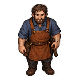
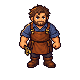
Match NPC and Inspector artwork to the party (#19)
* Match Larkspur and Rillbridge NPC artwork to the party

* Complete matching NPC and enemy sprite and portrait set

* Handle supporting-sheet gaps at the scan boundary

* Restore original Hound, Crow and Guardian artwork

Changed region(s): [[0.225, 0.05, 0.775, 0.95]]

diff --git a/tests/e2e/sprites.spec.ts b/tests/e2e/sprites.spec.ts
@@ -14,7 +14,9 @@ for(const [device,viewport,dpr] of [['desktop',{width:1280,height:800},1],['phon
     // Check every exported actor's real alpha bounds, including the new reserve directions.
     const feet=await page.evaluate(async()=>{
       const all=[];
-      for(const hero of ['nell','orrin','kit','celia','petra'])for(const suffix of ['','-left','-right','-back']){
+      const party=['nell','orrin','kit','celia','petra'];
+      const supporting=['master','clerk','tilda','elspeth','tomas','alban','bram','dena','emperor','relay-keeper','boiler-keeper','sluice-keeper','inspector','hound','crow','guardian'];
+      for(const hero of [...party,...supporting])for(const suffix of party.includes(hero)?['','-left','-right','-back']:['']){
         const image=new Image();image.src=`/art/${hero}${suffix}.png`;await image.decode();
         const canvas=document.createElement('canvas');canvas.width=canvas.height=80;const ctx=canvas.getContext('2d')!;ctx.drawImage(image,0,0);
         const p=ctx.getImageData(0,0,80,80).data;let bottom=-1,top=80;
@@ -35,7 +37,14 @@ for(const [device,viewport,dpr] of [['desktop',{width:1280,height:800},1],['phon
         all.push({hero,suffix,top,bottom,components,width:image.naturalWidth,height:image.naturalHeight});
       }return all;
     });
-    for(const actor of feet){expect(actor.width).toBe(80);expect(actor.height).toBe(80);expect(actor.bottom,`${actor.hero}${actor.suffix} ground`).toBe(67);expect(actor.components,`${actor.hero}${actor.suffix} has no detached alpha fragments`).toBe(1);expect(actor.top).toBeGreaterThanOrEqual(4);expect(actor.top).toBeLessThanOrEqual(10);}
+    for(const actor of feet){
+      expect(actor.width).toBe(80);expect(actor.height).toBe(80);
+      // These enemies retain their original native silhouettes and placement.
+      if(['hound','crow','guardian'].includes(actor.hero))continue;
+      expect(actor.bottom,`${actor.hero}${actor.suffix} ground`).toBe(67);
+      expect(actor.components,`${actor.hero}${actor.suffix} has no detached alpha fragments`).toBe(1);
+      expect(actor.top).toBeGreaterThanOrEqual(4);expect(actor.top).toBeLessThanOrEqual(10);
+    }
     await capture(page,`sprite-cast-${device}`);
     await review.getByRole('button',{name:'Inspect Celia',exact:true}).click();
     await review.getByRole('group',{name:'Facing',exact:true}).getByRole('button',{name:'Back',exact:true}).click();
@@ -81,6 +90,7 @@ for(const [device,viewport,dpr] of [['desktop',{width:1280,height:800},1],['phon
     expect(await hound.evaluate(async element=>{const i=element as HTMLImageElement;await i.decode();const scale=window.borrowedTomorrowPixels.inspect().cssScale,r=i.getBoundingClientRect();return [i.naturalWidth,i.naturalHeight,Math.round(r.width/scale),Math.round(r.height/scale)];})).toEqual([80,80,80,80]);
     await expect(review.locator('.sprite-reference')).toContainText('Portrait: not available');
     expect(await page.locator('.inventory-panel').evaluate(p=>p.scrollWidth<=p.clientWidth)).toBe(true);
+    await capture(page,`sprite-enemies-${device}`);
     expect(await page.evaluate(()=>JSON.stringify(localStorage))).toBe(stored);await expect(page.locator('vite-error-overlay')).toHaveCount(0);expect(errors).toEqual([]);
   });
  });

diff --git a/assets/characters/supporting-prompts.md b/assets/characters/supporting-prompts.md
@@ -1,0 +1,70 @@
+# Supporting-cast artwork
+
+Created with built-in Image Gen. The approved Nell atlas supplies style and proportions; each character's previous portrait and actor supply identity and costume. The committed native PNGs are the production art. Source-sheet filenames and export sizes are recorded in `supporting-cast.json`; source sheets remain in the work chat.
+
+## Shared portrait/actor prompt
+
+Use case: style-transfer. Asset type: transparent JRPG production sheet with TWO cutouts, one portrait and one world actor of ONE character. Input 1 is the approved Nell PARTY ATLAS: STYLE AND WORLD PROPORTIONS REFERENCE ONLY; do NOT draw Nell or borrow her costume. Input 2 is this NPC's OLD portrait and actor: IDENTITY/COSTUME REFERENCE ONLY, replace its more realistic rendering with the party style.
+STYLE MUST MATCH THE FIRST REFERENCE closely: compact 2.75-head-tall super-deformed world actor, large readable simplified anime/JRPG eyes, crisp dark warm outlines, discrete late-16-bit/early-PC pixel clusters, warm upper-left highlights, blue-violet shadows. The portrait has the same simplified face and costume as the actor. No photorealism, painted rendering, tiny realistic face, bloom, dithering or antialiased contours.
+LAYOUT: vertical sheet. One large HEAD-AND-SHOULDERS portrait centered in the UPPER HALF, with its complete hair and shoulders visible. One complete compact FRONT-FACING world actor centered in the LOWER HALF, feet visible. The entire portrait is ABOVE the horizontal midpoint and the entire actor is BELOW it, with a wide transparent gap at midpoint. ONLY these two depictions; do not copy the four-direction layout of Nell's reference. Pixel clusters should be large enough to survive export to portrait 128x128 and world actor 80x80, actual figure 64 pixels tall. World face must retain clear eyes and a tiny mouth at that size. Same anatomy, costume, face and colors in both cutouts.
+BACKGROUND: genuine transparency. No labels, text, frames, panels, scenery, cast shadows, ground shadows, glow, floating specks, extra figures or extra poses.
+
+## Identity briefs
+
+### master
+
+Stationmaster Ansel: elderly human man; wavy swept-back white hair, bushy white eyebrows, large white handlebar moustache, NO beard, kindly thoughtful eyes. Black/navy railway longcoat with brass-gold piping and a round brass railway badge, brown double-breasted waistcoat with pocket watch chain, white shirt, dark tie, dark trousers, brown boots. No hat worn; hands relaxed. Practical dignified mentor, gentle expression.
+
+### clerk
+
+Iona: adult female supply clerk with short chestnut/dark-brown hair tucked under a charcoal-gray tall bowler/top hat with black band and small brass railway badge. Small round brass spectacles and intelligent kind eyes. Gray railway jacket, dark vest and trousers, white collar and dark tie, brown boots; holds her wooden clipboard/ledger and short pencil close to her chest. Dry, friendly, composed expression. Preserve hat, glasses and ledger; no cap, staff or weapon.
+
+### tilda
+
+Tilda: sturdy, plump adult female baker, curly red/auburn hair with a cream head kerchief tied behind. Green calf-length work dress, cream apron, brown shoes; holds a neatly folded cream bread cloth in both hands at her waist. Warm concerned face, approachable and practical. No weapon, jewelry or religious symbol. Keep her distinctly red-haired and round-cheeked.
+
+### elspeth
+
+Elspeth: elderly female retired teacher in a wheelchair. Neat gray hair gathered back in a bun, small round brass spectacles, precise alert eyes, plum/mulberry knitted shawl over long navy-blue dress. Holds a closed blue register book on her lap. Seated upright in a dark wood and brass wheelchair with TWO large dark rear wheels, small front casters, armrests and a footplate; boots rest on the footplate. She does NOT stand or walk. Portrait must include hints of the wheelchair back/handles and the blue book at its lower edge. World actor includes the COMPLETE wheelchair, wheels and feet, still compact and same overall 64-pixel target height as Nell. Independent, composed, slightly stern expression.
+
+### tomas
+
+Tomas: human man age 24, Nell's older brother. Short tousled brown hair, warm brown eyes, clean-shaven youthful but adult face. Navy traveling jacket, cream shirt, worn rust-red scarf, brass sun brooch, leather cross-body satchel, brown trousers and sturdy brown boots. Warm but worried expression; relaxed open empty hands. No cap, lantern or weapon.
+
+### alban
+
+Captain Alban: HUMAN imperial officer in his late thirties, pale skin, angular stern face, swept-back dark hair with a silver streak at the temple, no beard, no mask, no goggles. Navy military longcoat with brass-gold trim and epaulettes, ivory breastplate with brass sun, burgundy diagonal sash, white gloves, dark trousers, black boots. Saber held down in his RIGHT hand, LEFT hand empty. Upright authoritative posture. His very clearly human face must be distinct from the generic robotic Inspector.
+
+### bram
+
+Bram: broad, stocky, middle-aged human male works foreman. Tousled short dark-brown hair and full short brown beard, thick eyebrows, warm practical expression. Rolled-sleeve dusty BLUE work shirt, worn BROWN leather work apron, dark work trousers, brown boots. A small brass wrench held low in his RIGHT hand, LEFT hand empty. No cap, goggles, steam lance, weapons or uniform. Retain recognizable foreman identity distinct from Orrin.
+
+### dena
+
+Dena: adult human female railway ward nurse with medium brown skin, short curly dark hair, gentle attentive brown eyes. Small plain CREAM nurse cap WITHOUT a cross, teal/forest-green rolled-sleeve blouse, long plain CREAM work apron over a dark skirt, brown practical shoes. Brown cross-body medical bag; holds its shoulder strap with her LEFT hand, RIGHT hand empty. Friendly capable calm face. No religious or medical cross symbols.
+
+### emperor
+
+The Emperor: weary older human man with shoulder-length wavy silver hair, gray eyes, short neat silver beard. Thin brass sun circlet, dark navy imperial coat under an ivory gold-trimmed outer coat with broad shoulders, black mourning ribbon pinned on chest, brass imperial sun clasp, dark trousers, boots. Regally restrained upright posture, bare hands at sides, no weapon or staff. Burdened, proud, sorrowful expression rather than kindly smile. Do not resemble a younger party member.
+
+### relay-keeper
+
+The Engine Warden: slender articulate clockwork machine, distinctly NOT a human. Brass/gold skeletal limbs, teal-green glass cylindrical torso with vertical ribs, tall oval glass-caged head containing TWO warm amber lenses, small brass finial on top. Its anatomical RIGHT arm holds a red-and-ivory railway semaphore paddle angled up; anatomical LEFT arm extends sideways as a black-ended brass baton/tool. Thin jointed metal legs and broad small brass feet. Same compact 64-pixel target height as Nell but slender silhouette. Portrait shows oval head, glass cylinder and shoulder mechanisms with semaphore edge. Clearly mechanical, no human face, hair or clothing.
+
+### boiler-keeper
+
+Heart regulator: squat bulky blackened iron and copper boiler automaton. Rounded black domed head with TWO amber round eyes beneath a riveted brow; large cream round pressure gauge in the UPPER CENTER of its chest, bright orange vertical furnace grate immediately BELOW the gauge. Copper exhaust chimney rising from its anatomical LEFT shoulder, pipes and pressure fittings, two heavy jointed arms ending in metal clamp claws, short broad mechanical legs and metal boots. Copper/brass edge trim. Distinct from the generic guardian by its central round pressure gauge, clamp hands and pressure apparatus. Portrait includes the face, gauge and upper furnace. No human face, clothing, text or tiny gauge numbers.
+
+### sluice-keeper
+
+The Sanctuary Warden: heavy weathered TEAL/GREEN verdigris and bronze cylindrical hydraulic guardian. Helmet-like barrel head with a single narrow CYAN-BLUE horizontal visor slit, flat brass band and rounded cap. Huge round BRONZE VALVE WHEEL centered on its broad chest, bronze bolts, curved teal shoulder plates, exposed hydraulic pipes, two broad steel/brass gauntlets and short heavy metal legs/boots. Two unequal vertical shoulder pipe fittings. Distinct from boiler/guardian with blue slit visor, green armor and large circular valve chest; no orange furnace. Portrait shows helmet, shoulders and upper valve wheel. No human face or clothing.
+
+### inspector
+
+Inspector: a humanoid CLOCKWORK ENFORCER, NOT a human. Cold pale steel/iron articulated MASK face with TWO small amber glowing lens eyes, no hair, no flesh, no moustache, no beard. Charcoal peaked railway officer cap with brass sun badge, dark charcoal longcoat with brass trim and buttons, reddish-brown cross-body strap, mechanical gloved hands and dark heavy boots. Holds a long brass staff topped with a round RED STOP DISC in its anatomical LEFT hand; RIGHT arm rests by side. Severe rigid posture. Distinct from human Captain Alban. Portrait includes metal mask and cap; keep the face simplified into bold readable pixel clusters.
+
+## Native export
+
+Run `node scripts/import-character-atlas.mjs <asset-id> <source.png>`. The supporting-cast manifest records the retained portrait/actor replacements. Hound, Crow and Guardian use their original native PNGs; their rejected resampled replacements are not production sources. Pair exports find the transparent gap between the portrait and actor. Source and native cutouts discard detached alpha fragments; nearest-neighbor sampling copies complete source RGBA pixels. Per-view phases in `sampling-offsets.json` are selected from native face comparisons, with no painted corrections or palette conversion.
+
+The replacement figures use a 64-pixel height budget within the 80 x 80 canvas, with widths bounded without stretching and a row-68 ground guide. The three original enemy PNGs retain their original silhouettes and placement. Portraits remain 128 x 128. Runtime code renders the committed art at native size.

diff --git a/docs/art-direction.md b/docs/art-direction.md
@@ -23,7 +23,7 @@ Restored scenery and character assets not assigned to the playable chapters rema
 
 ## Characters
 
-`src/content/characters.ts` registers each named character. Ansel and Iona exclusively own the original `master` and `clerk` sprite/portrait pairs. The five playable characters use one consistent pixel-art set with four directional actors each. Tilda retains her red hair, cream kerchief and green dress. Elspeth retains her wheelchair, plum shawl and blue register.
+`src/content/characters.ts` registers each named character. Ansel and Iona exclusively own the `master` and `clerk` sprite/portrait identities. The whole registered cast uses one consistent pixel-art style; the five playable characters have four directional actors each. Tilda retains her red hair, cream kerchief and green dress. Elspeth retains her wheelchair, plum shawl and blue register.
 
 **Tomas** and **Captain Alban** have new matching actor and portrait pairs, created with built-in Image Gen using Nell's actor and portrait as style and proportion references. The transparent source sheets were mechanically separated and exported into native 80 × 80 actor and 128 × 128 portrait canvases with point sampling. Only near-transparent background glow was discarded; runtime never rescales or recolors the exported assets. The character tests verify native dimensions and distinct image contents.
 
@@ -79,4 +79,14 @@ The refuge’s garden fence and stone pillars are blocked. Reunion stages Celia 
 
 Nell, Orrin, Kit, Celia and Petra now share one compact JRPG style: discrete pixel clusters, dark warm outlines, upper-left highlights and cool shadows. Portraits use the same simplified faces and costumes as their world actors. All five have front, left, right and back views. The 80 x 80 exports share a ground anchor at (40, 68); no world actor is stretched or recolored at runtime. Exploration leaders and followers use their actual direction of travel. Cutscenes and combat continue to use the same registered identities and native files.
 
-The Vite-only **Sprites** workshop compares the whole cast, native portraits, directional strips and deliberate integer zoom against light/dark backdrops with optional ground guides. The generated-atlas prompts and authoring export procedure are recorded in `assets/characters/prompts.md`. Existing NPC and scenery art stays outside this playable-character redraw.
+The Vite-only **Sprites** workshop compares the whole cast, native portraits, directional strips and deliberate integer zoom against light/dark backdrops with optional ground guides. The generated-atlas prompts and authoring export procedure are recorded in `assets/characters/prompts.md`.
+
+## Supporting cast and enemies
+
+All twelve registered NPCs and the Inspector use the party's compact proportions, simplified faces, warm outlines, upper-left highlights and blue-violet shadows. Each has a matching new portrait and front actor. Hound, Crow and Guardian retain their original native sprites: the attempted replacements lost too much detail during downsampling. Existing asset IDs preserve dialogue portraits, exploration encounters and named boss appearances across all four chapters.
+
+The old art supplied identity and costume references while Nell's approved atlas supplied rendering and proportions. Elspeth stays seated in her complete wheelchair; Tilda keeps her kerchief and apron; Ansel keeps his white moustache; Iona keeps her hat, spectacles and ledger. Alban remains visibly human, distinct from the Inspector's steel mask and orange lenses. The Engine Warden keeps its glass signal head and semaphore apparatus; the heart regulator keeps its pressure gauge and clamp hands; the Sanctuary Warden keeps its blue visor and large chest valve. The generic guardian has furnace armor and closed fists, without the regulator's pressure gauge.
+
+World actors use native 80 x 80 canvases. The replacement figures use the common ground anchor at (40, 68) and a 64-pixel height budget; the three original enemy sprites retain their original silhouettes and placement. Width limits preserve aspect ratios. Portraits remain native 128 x 128. The authoring exporter separates portrait/actor pairs at their transparent gap, removes detached fragments and applies recorded nearest-neighbor sampling phases without blending colors. Runtime rendering is unchanged.
+
+`assets/characters/supporting-prompts.md` records the built-in Image Gen prompts and export workflow. `supporting-cast.json` records source-sheet filenames and size budgets; `sampling-offsets.json` records selected actor phases. The workshop reviews every replacement against the same native ground guides as the party.

diff --git a/AGENTS.md b/AGENTS.md
@@ -37,3 +37,5 @@ Normal CI runs rule/content tests, the production build and the small `@ci` brow
 All five playable characters have front/left/right/back actors in `public/art/`, registered by `src/content/actors.ts`. Keep native 80 x 80 dimensions and the shared ground anchor at (40, 68). Use the same character identity and costume for their 128 x 128 portraits. The Vite-only Sprites workshop (`?dev=sprites`) reviews this art without writing saves or builds; keep review code out of production. Artwork prompt briefs and export details live in `assets/characters/prompts.md`.
 
 The sprite workshop catalog includes every registered NPC plus the combat enemy actors; single-view assets must not pretend to have mirrored direction frames. Playable left/right frames preserve physical handedness (Nell’s lantern right, Petra’s shield left). Authoring exports must remove detached alpha fragments before cropping and after native sampling.
+
+The twelve NPCs and Inspector share the party's compact pixel style. Supporting-cast source sheets, size budgets and briefs are recorded in `assets/characters/supporting-cast.json` and `supporting-prompts.md`. Keep the NPC identities and enemy archetypes distinct, including Elspeth's complete wheelchair and the three wardens' different mechanisms. Replacement actors share the row-68 ground guide. Hound, Crow and Guardian retain their original native artwork and placement; do not replace them with the rejected resampled versions.

diff --git a/assets/characters/prompts.md b/assets/characters/prompts.md
@@ -20,6 +20,8 @@ Transparent JRPG character production atlas. One head-and-shoulders portrait in 
 
 The generated source atlases remain attached to the work chat. The committed native exports are the production artwork; normal builds require neither Image Gen nor ImageMagick.
 
+The matching NPC and enemy set uses the same renderer and authoring exporter. Its identity briefs, source manifest and size budgets are documented in [supporting-prompts.md](supporting-prompts.md) and [supporting-cast.json](supporting-cast.json).
+
 
 ## Handed side-view revision
 
